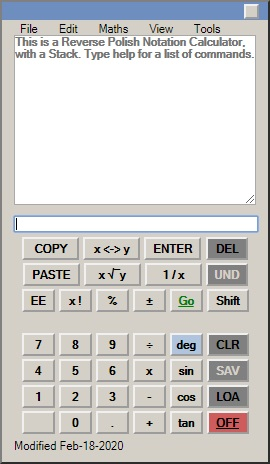
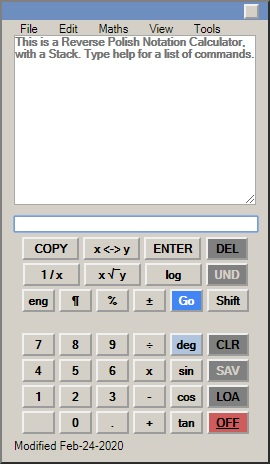
Added catch/try block to moveCursorToEnd, updated READ.ME acknowledgements and images

diff --git a/scripts/index.js b/scripts/index.js
@@ -103,14 +103,18 @@ function mobileKeyboardAllow() {
 }
 
 function moveCursorToEnd(el) {
-  if (typeof el.selectionStart === 'number') {
-    el.selectionStart = el.selectionEnd = el.value.length;
-  } else if (typeof el.createTextRange !== 'undefined') {
-    el.focus();
-    var range = el.createTextRange();
-    range.collapse(false);
-    range.select();
-  }
+  try {
+    if (typeof el.selectionStart === 'number') {
+      el.selectionStart = el.selectionEnd = el.value.length;
+    } else if (typeof el.createTextRange !== 'undefined') {
+      el.focus();
+      var range = el.createTextRange();
+      range.collapse(false);
+      range.select();
+    }
+  } catch (e) {
+    console.error(e);
+  }  
 }
 
 //////// Buttons /////////////////////////////////////////////////////////////////////

diff --git a/README.md b/README.md
@@ -11,6 +11,7 @@ This project does not use any JQuery and Works offline :)
 This calcamatron makes use of a visible stack . Units are supported (no conversion as yet).
 
 ![Calcamatron](images/screenshots/rpnapes.jpg)
+![Shifted calcamatron](images/screenshots/rpnapes-2.jpg)
 
 ## Notes
 A separate interface for note taking is implemented.
@@ -20,6 +21,8 @@ A separate interface for note taking is implemented.
 Stack and Notes can be saved independently, locally, to browser cookie. 
 Saving and opening text files is supported also - with special thanks to Eli Grey for the use of [FileSaver.js](https://github.com/eligrey/FileSaver.js/).
 
+Thanks to Darryl Snow. Your [moveCursorToEnd](https://gist.github.com/darryl-snow/3990793) function saved the day in my attempts to wrangle with mobile keypads.
+
 ## Tricorder
 
 ![Tricorder](images/screenshots/tricorder.jpg)
@@ -27,3 +30,9 @@ Saving and opening text files is supported also - with special thanks to Eli Gre
 The original tricorder image can be found on [IMGBIN](https://imgbin.com/png/7Ay8HnU3/medical-tricorder-star-trek-x-prize-foundation-hypospray-png). Special thanks to keiske84 :)
 
 The tricorder doesn't do too much. It displays a weather forecast and weather map, from [darksky.net/forecast](https://darksky.net/forecast) and [maps.darksky.net](https://maps.darksky.net) And there are few YouTube videos and Internet radio stations embedded in iFrames.
+
+## Acknowledgements
+
+There are many snippets of code for which I never kept track of the original source. Some from GitHub and many from Stack Overflow and elsewhere. I apologize for not having been with it. As I rework and rediscover the code for myself I do intend to update my thanks whenever I can. To all the unsung hero's of coding my, my hat is off to you ♥ ♥ ♥
+
+![Hat's off to you!](images/screenshots/tippy-hat.gif)
